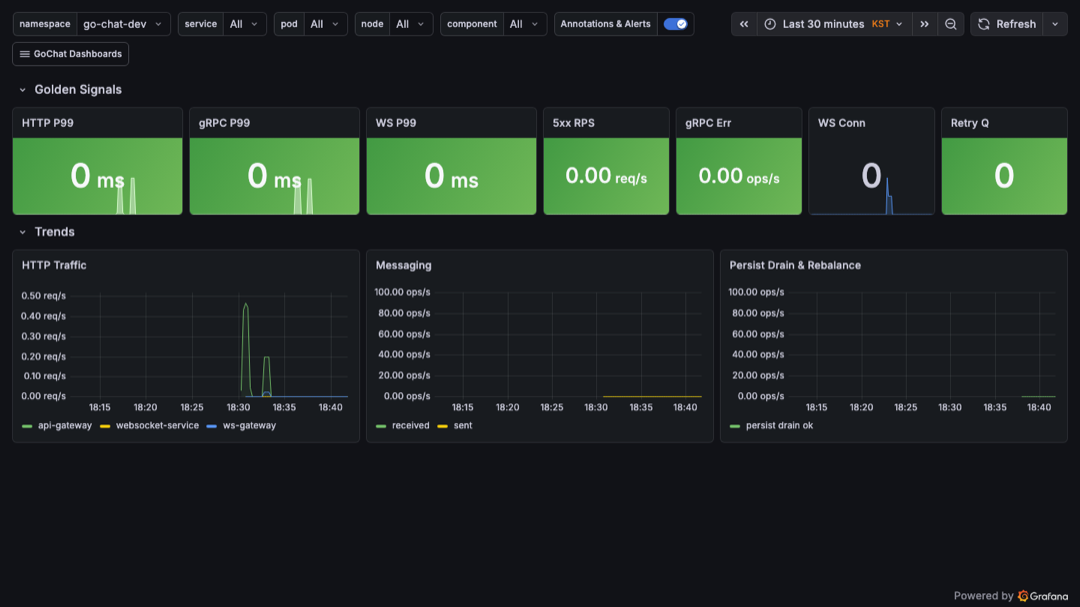
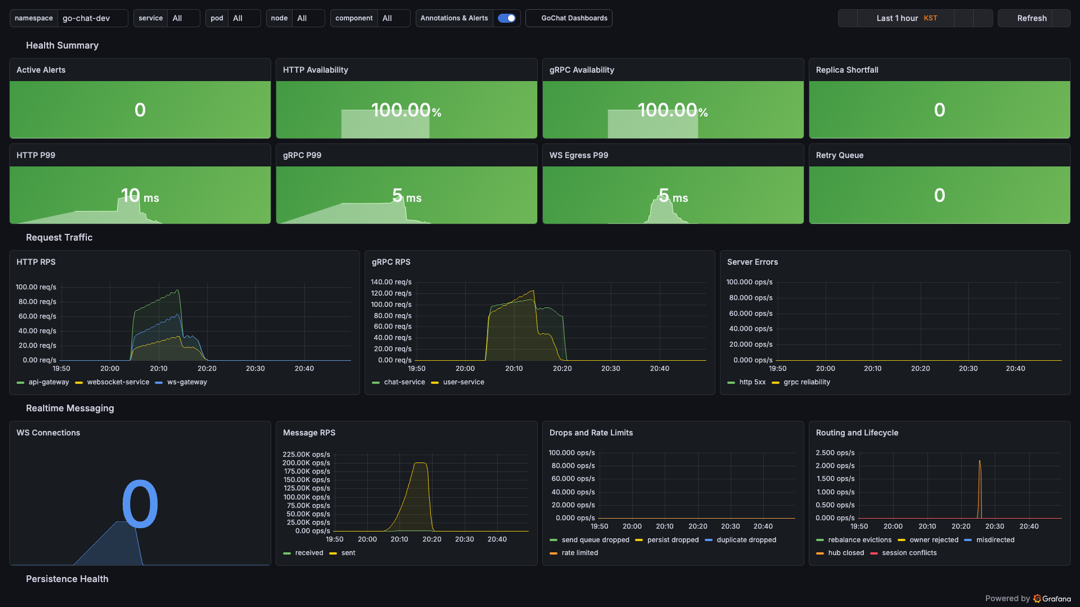
docs: 관측 문서와 README 캡처 갱신

diff --git a/docs/TELEMETRY_CATALOG.md b/docs/TELEMETRY_CATALOG.md
@@ -223,7 +223,6 @@ HTTP/gRPC panic recovery는 `gochat_panic_recovered` counter를 증가시키고 
 | gochat_persistence_retry_queue_full_total | counter | - |
 
 - 서비스: websocket-service
-- 코드상 `gochat_persistence_retry_queue_full_total`은 등록되어 있지만 현재 Grafana dashboard query에는 직접 쓰이지 않는다.
 
 ### PostgreSQL
 
@@ -343,7 +342,7 @@ Alloy는 cAdvisor에서 위 container 메트릭만 keep하고, namespace/pod가 
 | go_memory_allocations_total | observable counter | - |
 | go_memory_gc_goal | observable updowncounter | - |
 
-K8s 공통 라벨(`namespace`, `service`, `pod`, `node`, `component` 등)은 Alloy transform으로 추가된다. `go_memory_type`은 OTel attribute `go.memory.type`이 Prometheus label로 변환된 이름이며, 현재 runtime dashboard는 `stack`, `other`를 조회한다.
+K8s 공통 라벨(`namespace`, `service`, `pod`, `node`, `component` 등)은 Alloy transform으로 추가된다. `go_memory_type`은 OTel attribute `go.memory.type`이 Prometheus label로 변환된 이름이다.
 
 ---
 

diff --git a/README.md b/README.md
@@ -8,7 +8,7 @@ Go와 Kubernetes로 구현한 실시간 채팅 MSA입니다. WebSocket 서버를
 
 ## 화면
 
-clean `dev` 클러스터에서 `demomanager`와 `demomember`가 `Kubernetes Demo Room`에 참여해 메시지를 주고받은 뒤 캡처한 화면입니다. 대시보드는 같은 시나리오 트래픽이 반영된 Grafana `OVERVIEW`입니다.
+데모용 프론트엔드와 Grafana 대시보드 화면입니다.
 
 | 로비 | 채팅 |
 | :---: | :---: |
